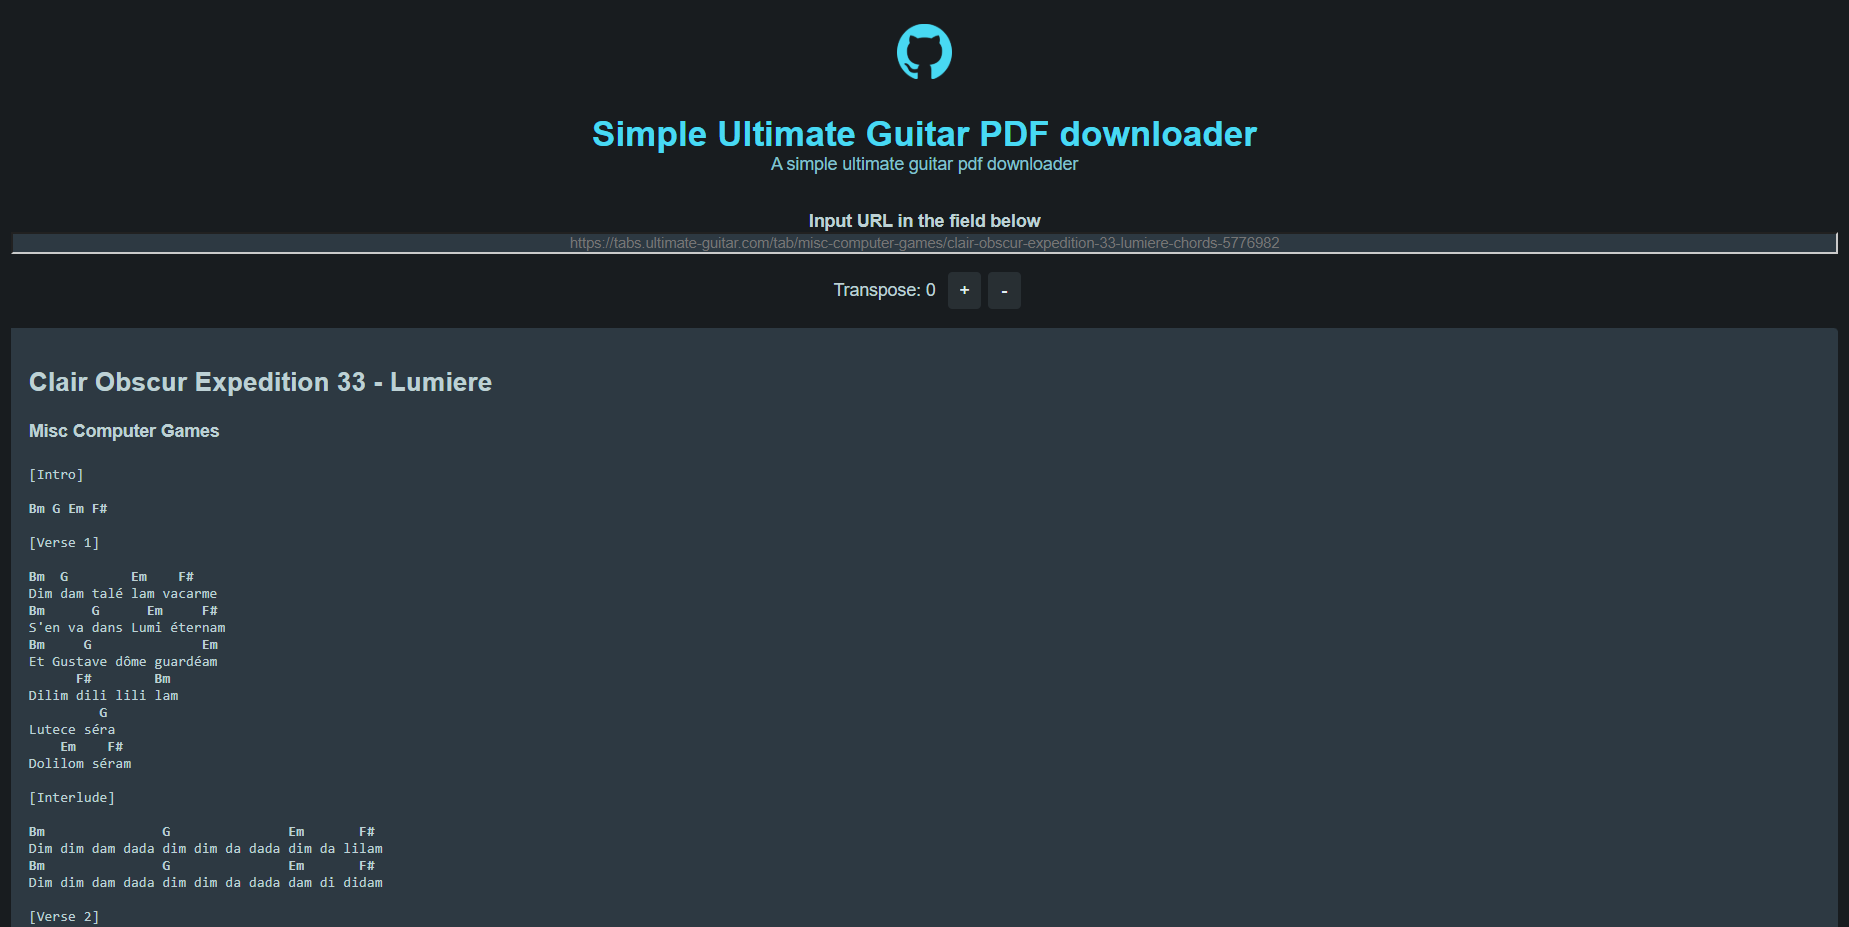
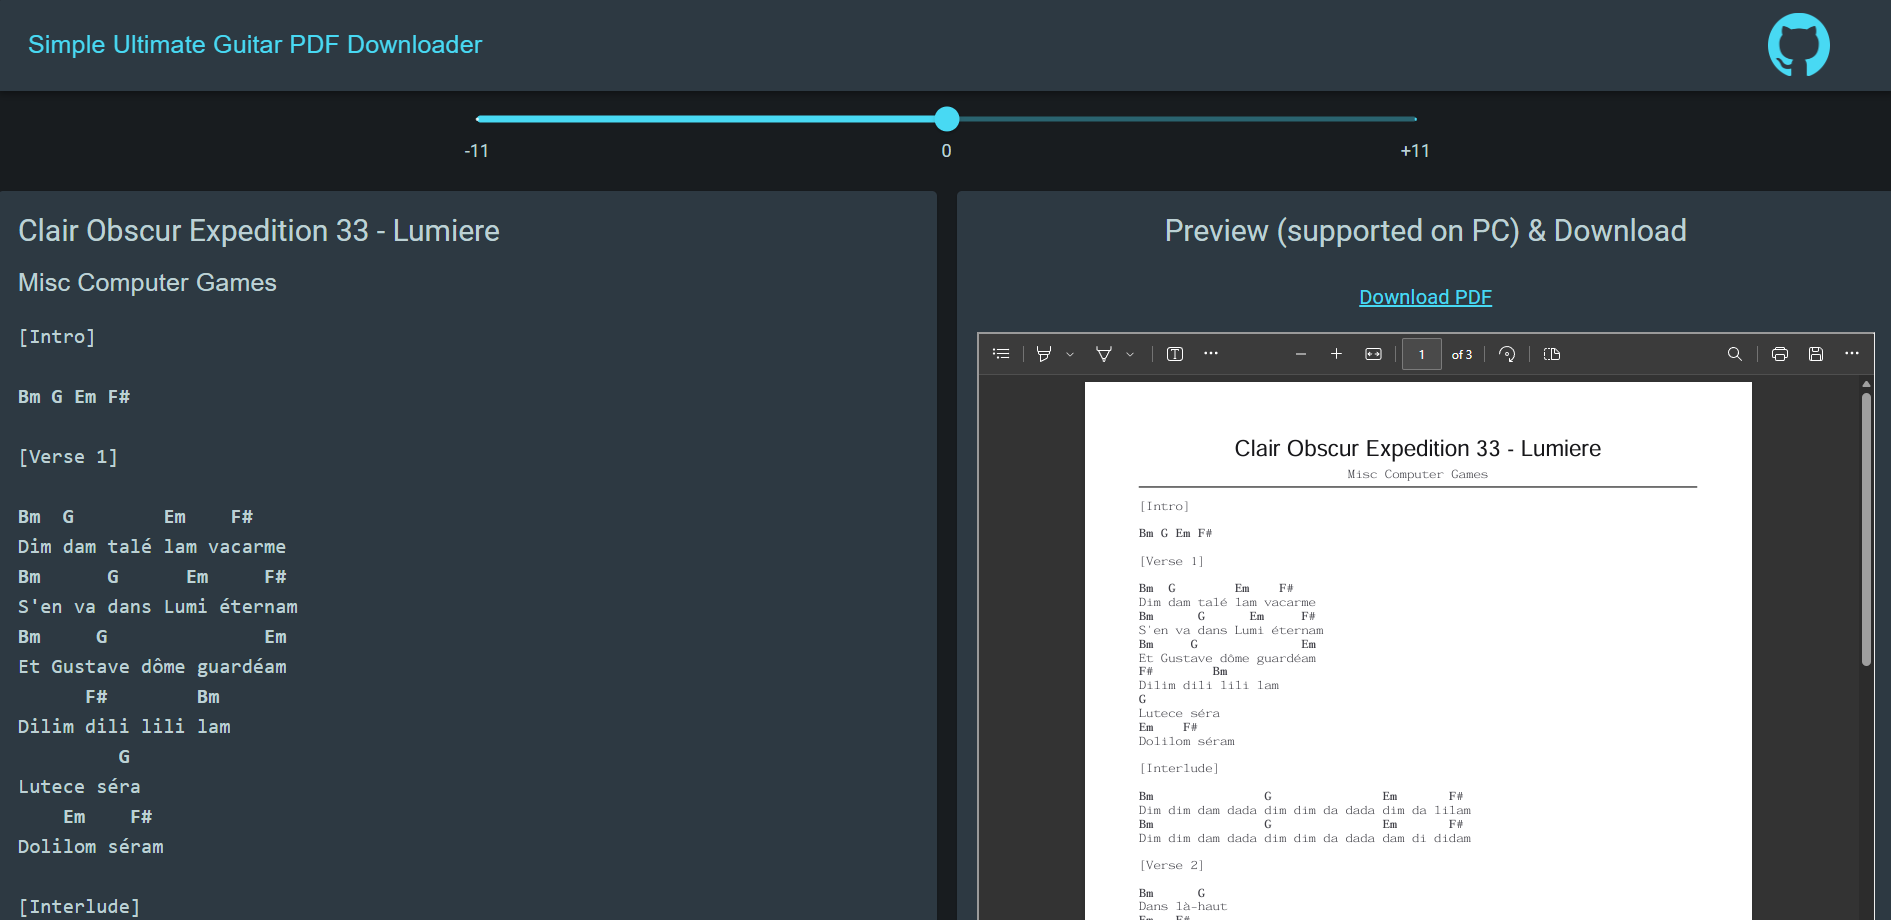
Updated README

diff --git a/README.md b/README.md
@@ -3,16 +3,21 @@
 **Simple-UltimateGuitar-PDFDownloader** is a simple app written in React for practices.
 It enables you to:
 * View guitar tabs on ultimate guitar
+* Transpose tabs
 * Download PDF tab
 * Preview PDF tab
 
 ![alt text](./docs/siteview1.png)
 ![alt text](./docs/siteview2.png)
-![alt text](./docs/siteview3.png)
 
-## Usage
+## Usage (hosted)
 URL: https://simple-ultimateguitar-pdfdownloader.pages.dev/
 Just input the URL of your tab in the input field and page will automatically refresh
+You can use the slider to transpose the chord
+
+## Usage (self-hosted)
+To host it yourself you need to install dependencies and use a CORS Plugin extension
+This extensions: https://chromewebstore.google.com/detail/allow-cors-access-control/lhobafahddgcelffkeicbaginigeejlf
 
 ## Features
 * [X] Chord Transposer
@@ -21,6 +26,6 @@ Just input the URL of your tab in the input field and page will automatically re
 * [ ] Multiple links download
 * [ ] Custom styles and variable font size
 * [ ] Page space optimization (reduce number of pages)
-* [ ] Modern style for webpage
+* [X] Modern style for webpage
 * [ ] Possibility to add or remove chord and meta information (key, tuning, ...)
 * [ ] Latin chords conversion
